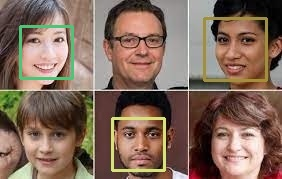
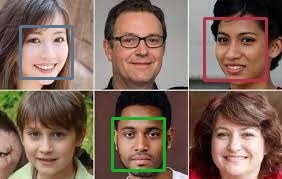
Desfoque para encEdc

Changed region(s): [[0.3688, 0.6425, 0.5957, 0.9777], [0.7092, 0.0838, 0.9645, 0.4749], [0.0567, 0.1397, 0.2837, 0.4469]]

diff --git a/ProjetoPDS/website/scriptaddPublicacao.js b/ProjetoPDS/website/scriptaddPublicacao.js
@@ -488,6 +488,8 @@ async function enviarDadosPessoaDesfoque(fotoOriginal, nomeFotoFicheiro, utentes
         const data = await response.json();
         const nomeFicheiros = data.value;
         const fotoDesfocada = data.pathFotoDesfocada;
+        const fotosDesfocadas = data.pathFotosDesfocadasEncEdc;
+
         div = document.getElementById("Desfocagem");
         //se a div estiver vazia remove tudo de dentro
         if(div.firstChild !== null){
@@ -495,10 +497,24 @@ async function enviarDadosPessoaDesfoque(fotoOriginal, nomeFotoFicheiro, utentes
                 div.removeChild(div.firstChild);
             }
         }
-        const imgDesfocada = document.createElement('img');
-        auxFotoDesfocada = getRelativePath(fotoDesfocada)
-        imgDesfocada.src = auxFotoDesfocada;
-        div.appendChild(imgDesfocada)
+        for (let i = 0; i < Object.keys(fotosDesfocadas).length; i++)
+            {
+                const key = Object.keys(fotosDesfocadas)[i];
+                const value = fotosDesfocadas[key];
+
+                const paragraphDesfocadaEncEdc = document.createElement('p');
+                paragraphDesfocadaEncEdc.setAttribute('id', 'pFotoNr' + (i + 1));
+                paragraphDesfocadaEncEdc.innerHTML = 'Foto ' + key;
+                
+                const imgDesfocadaEncEdc = document.createElement('img');
+                const auxFotoDesfocadaEncEdc = getRelativePath(value);
+                imgDesfocadaEncEdc.setAttribute('id', 'fotoNr' + (i + 1));
+                imgDesfocadaEncEdc.src = auxFotoDesfocadaEncEdc;
+                
+                div.appendChild(paragraphDesfocadaEncEdc);
+                div.appendChild(imgDesfocadaEncEdc);
+            }
+
         // nomeFicheiros.forEach(ficheiro => {
         //     const img = document.createElement('img');
         //     const fileName = ficheiro.split('/').pop();

diff --git a/ProjetoPDS/Controllers/DesfoqueController.cs b/ProjetoPDS/Controllers/DesfoqueController.cs
@@ -1,8 +1,6 @@
 using Microsoft.AspNetCore.Mvc;
 using Newtonsoft.Json;
 using ProjetoPDS.Classes;
-using System.Drawing.Imaging;
-using System.Drawing.Printing;
 
 namespace ProjetoPDS.Controllers
 {
@@ -71,7 +69,7 @@ namespace ProjetoPDS.Controllers
         [Route("RealizarDesfoque")]
         public async Task<IActionResult> Desfoque([FromForm] string fotoOriginal, [FromForm] string nomeFotoFicheiro, [FromForm] string utentesPorVerificar, [FromForm] string local, [FromForm] string utentesVerificados)
         {
-            if (fotoOriginal == null || utentesPorVerificar.Count() < 1 || utentesVerificados.Count()<1)
+            if (fotoOriginal == null || utentesPorVerificar.Count() < 1 || utentesVerificados.Count() < 1)
                 return BadRequest();
             int numLocal = 0;
             FotoComDesfoque novoDesfoque = new FotoComDesfoque();
@@ -79,8 +77,6 @@ namespace ProjetoPDS.Controllers
             List<UtenteVerificar> listaDesfoque = JsonConvert.DeserializeObject<List<UtenteVerificar>>(utentesPorVerificar);
             List<UtenteIdentificado> listaDesfoqueVerificados = JsonConvert.DeserializeObject<List<UtenteIdentificado>>(utentesVerificados);
 
-            List<UtenteVerificar> auxListaDesfoque = novoDesfoque.VerificarAutorizacao(listaDesfoque);
-            List<UtenteIdentificado> auxListaDesfoqueVerificados = novoDesfoque.VerificarAutorizacaoVerificados(listaDesfoqueVerificados);
 
 
             string auxNomeFicheiro = "";
@@ -98,31 +94,34 @@ namespace ProjetoPDS.Controllers
                     return BadRequest(string.Format("Não existe o local inserido: {0}", local));
             }
             string fotoDesfocada = "";
-            foreach(UtenteVerificar u in auxListaDesfoque)
+            //Caso um utilizador não esteja identificado, ele é desfocado automaticamente.
+            foreach (UtenteVerificar u in listaDesfoque)
+                fotoDesfocada = await novoDesfoque.AplicarDesfoque(fotoOriginal, nomeFotoFicheiro, listaDesfoque);
+
+
+
+            List<UtenteIdentificado> auxListaDesfoqueVerificados = novoDesfoque.VerificarAutorizacaoVerificados(listaDesfoqueVerificados);
+
+            Dictionary<string, string> fotosDesfocadasEncEdc = new Dictionary<string, string>();
+            if (numLocal == 1)
             {
-                fotoDesfocada = await novoDesfoque.AplicarDesfoque(fotoOriginal, nomeFotoFicheiro, auxListaDesfoque);
+                string auxFotoEncEdc = "";
+                foreach (UtenteIdentificado u in auxListaDesfoqueVerificados)
+                {
+                    auxFotoEncEdc = await novoDesfoque.AplicarDesfoqueIdentificado(fotoDesfocada, nomeFotoFicheiro, auxListaDesfoqueVerificados, u.Nome);
+                    fotosDesfocadasEncEdc.Add(u.Nome,auxFotoEncEdc );
+                }
+                
             }
-
-            //foreach(UtenteIdentificado u in auxListaDesfoqueVerificados)
-            //{
-            //    if(u.Autorizacao < numLocal && u.Nome != null)
-            //    {
-            //        string nomeMinus = u.Nome.Replace(" ", "-");
-            //        auxNomeFicheiro = nomeFotoFicheiro + "_" + nomeMinus;
-            //        //checkar se existe na base de dados uma imagem ja com esse nome, para nao haver duplicatas, se tiver coloca um _2 tipo isto
-            //        fotoDesfocada = await novoDesfoque.AplicarDesfoque(fotoOriginal, nomeFotoFicheiro, auxListaDesfoque);
-            //        pathFotoDesfocada = novoDesfoque.AplicarDesfoque(fotoOriginal, pathImages + "\\" + auxNomeFicheiro + ".png"/*auxNomeFicheiro*/, listaDesfoque, utente.Nome);
-            //        nomeFicheiros.Add(string.Copy(pathFotoDesfocada));
-
-            //    }
-            //}
+            
             var payloadFotoDesfocada = new
             {
+                pathFotosDesfocadasEncEdc = fotosDesfocadasEncEdc,
                 pathFotoDesfocada = fotoDesfocada,
             };
             return Ok(payloadFotoDesfocada);
         }
 
-        
+
     }
 }

diff --git a/ProjetoPDS/Classes/FotoComDesfoque.cs b/ProjetoPDS/Classes/FotoComDesfoque.cs
@@ -332,6 +332,43 @@ namespace ProjetoPDS.Classes
             }
             return fotoDesfocadaPath;
         }
+
+        /// <summary>
+        /// Desfoque para identificados.
+        /// </summary>
+        /// <param name="fotoOriginal"></param>
+        /// <param name="nomeFotoFicheiro"></param>
+        /// <param name="listaUtentes"></param>
+        /// <returns></returns>
+        public async Task<string> AplicarDesfoqueIdentificado(string fotoOriginal, string nomeFotoFicheiro, List<UtenteIdentificado> listaUtentes, string nomeUtente)
+        {
+            string auxNomeFotoFicheiro = Path.GetFileNameWithoutExtension(nomeFotoFicheiro);
+            auxNomeFotoFicheiro = auxNomeFotoFicheiro + nomeUtente;
+            bool firstIteration = true;
+            string fotoDesfocadaPath = "";
+            foreach (UtenteIdentificado u in listaUtentes)
+            {
+                if(u.Nome != nomeUtente)
+                {
+                    if (firstIteration)
+                    {
+                        string response = await pyController.CallPythonBlur(fotoOriginal, auxNomeFotoFicheiro, u.Left, u.Top, u.Right, u.Bottom);
+                        response = response.Trim('"');
+                        fotoDesfocadaPath = response.Replace(@"\\", @"\");
+                        firstIteration = false;
+                    }
+                    else
+                    {
+                        string response = await pyController.CallPythonBlur(fotoDesfocadaPath, auxNomeFotoFicheiro, u.Left, u.Top, u.Right, u.Bottom);
+                        response = response.Trim('"');
+                        fotoDesfocadaPath = response.Replace(@"\\", @"\");
+                        firstIteration = false;
+                    }
+                }
+            }
+            return fotoDesfocadaPath;
+        }
+
         /// <summary>
         /// Cria uma foto miniatura para cada uma das pessoas processadas.
         /// </summary>
@@ -405,22 +442,12 @@ namespace ProjetoPDS.Classes
             return novoListaUtentes;
         }
 
+        
         /// <summary>
-        /// Função para definir quais os utilizadores que necessitam de ser desfocados.
+        /// Verifica qual dos utilizadores irão necessitar de ser desfocados.
         /// </summary>
-        /// <param name="utentesVerificar"></param>
+        /// <param name="utentesVerificados"></param>
         /// <returns></returns>
-        public List<UtenteVerificar> VerificarAutorizacao(List<UtenteVerificar> utentesVerificar)
-        {
-            List<UtenteVerificar> utentesVerificarAux = new List<UtenteVerificar>();
-
-            foreach (UtenteVerificar u in utentesVerificar)
-                if (u.Autorizacao < 3)
-                    utentesVerificarAux.Add(u);
-
-            return utentesVerificarAux;
-        }
-
         public List<UtenteIdentificado> VerificarAutorizacaoVerificados(List<UtenteIdentificado> utentesVerificados)
         {
             List<UtenteIdentificado> utentesVerificadosAux = new List<UtenteIdentificado>();
